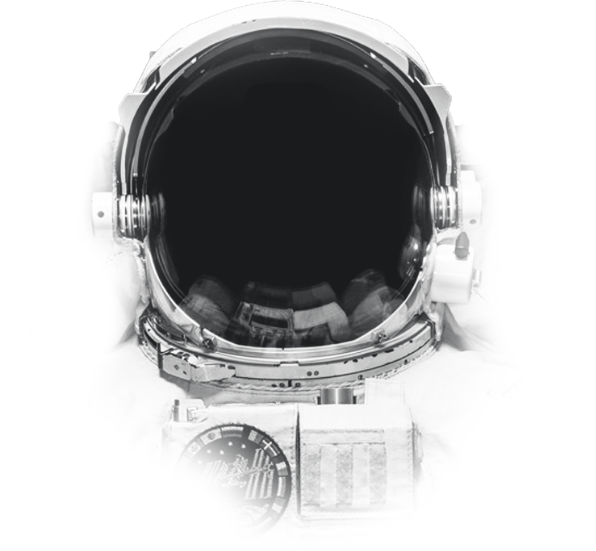
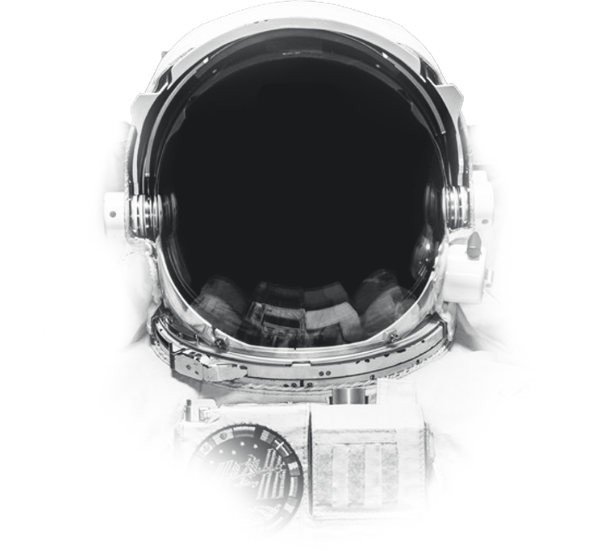
add button component

Changed region(s): [[0.151, 0.0309, 0.8456, 0.9564], [0.453, 0.0926, 0.4832, 0.1234]]

diff --git a/App/Containers/LaunchScreen.js b/App/Containers/LaunchScreen.js
@@ -3,6 +3,7 @@ import { View, Image, Animated, Easing, TouchableOpacity } from 'react-native'
 import images from '../Themes/Images'
 import { Title, Subtitle, Text } from '../Components/Typography'
 import { ApplicationStyles, Colors, Metrics, Images } from '../Themes'
+import { Button } from '../Components/Button'
 import styled from 'styled-components/native'
 import { WhiteSpace } from '../Components/Layout'
 import { isIphoneX } from '../Utils/iPhoneX'
@@ -20,7 +21,7 @@ const Wrapper = styled.View`
 const Spaceman = styled(Animated.Image)`
     resizemode: contain;
     position: absolute;
-    width: 120%;
+    width: ${isIphoneX() ? '120%' : '95%'};
 `
 
 const Logo = styled(Animated.Image)`
@@ -30,15 +31,8 @@ const Logo = styled(Animated.Image)`
     margin-bottom: ${Metrics.space.lg};
 `
 
-const Button = styled(Animated.createAnimatedComponent(TouchableOpacity))`
-    padding: ${Metrics.space.xl}px ${Metrics.space.xxl}px;
-    background: ${Colors.dark};
-    border-radius: 100;
-    z-index: 999;
-`
-
-const BOTTOM_ANIMATED_INITIAL = isIphoneX() ? -130 : -130
-const BOTTOM_ANIMATED_FINAL = isIphoneX() ? -120 : -120
+const BOTTOM_ANIMATED_INITIAL = isIphoneX() ? -130 : -170
+const BOTTOM_ANIMATED_FINAL = isIphoneX() ? -120 : -160
 
 const FLOAT_ANIMATION_DURATION = 1500
 
@@ -75,23 +69,23 @@ export default class LaunchScreen extends Component {
     constructor(props) {
         super(props)
         this.state = {
-            animatedPosition: new Animated.Value(0),
-            textPosition: new Animated.Value(0),
-            imagePosition: new Animated.ValueXY({ x: 0, y: 0 }),
+            floating: new Animated.Value(0),
+            textAndButtonFadeOut: new Animated.Value(0),
+            spacemanFadeOut: new Animated.ValueXY({ x: 0, y: 0 }),
         }
     }
 
     componentDidMount() {
-        floatAnimation(this.state.animatedPosition).start()
+        floatAnimation(this.state.floating).start()
     }
 
-    fadeEffect = value => {
+    fadeEffect = delay => {
         return {
-            top: this.state.textPosition.interpolate({
+            top: this.state.textAndButtonFadeOut.interpolate({
                 inputRange: [0, 1],
-                outputRange: [0, -Metrics.screenWidth / (3 + value)],
+                outputRange: [0, -Metrics.screenWidth / (3 + delay)],
             }),
-            opacity: this.state.textPosition.interpolate({
+            opacity: this.state.textAndButtonFadeOut.interpolate({
                 inputRange: [0, 1],
                 outputRange: [1, 0],
             }),
@@ -101,7 +95,7 @@ export default class LaunchScreen extends Component {
     render() {
         return (
             <View style={ApplicationStyles.screen.mainContainer}>
-                <View style={ApplicationStyles.screen.container}>
+                <View style={ApplicationStyles.screen.containerWithoutPadding}>
                     <Wrapper>
                         <Image
                             style={ApplicationStyles.screen.backgroundImage}
@@ -129,40 +123,36 @@ export default class LaunchScreen extends Component {
                         <Button
                             style={this.fadeEffect(4)}
                             onPress={() => {
-                                outAnimation(this.state.textPosition).start(
-                                    () => {
-                                        floatAnimation(
-                                            this.state.animatedPosition
-                                        ).stop()
-                                        this.props.navigation.navigate('Main')
-                                    }
-                                )
+                                outAnimation(
+                                    this.state.textAndButtonFadeOut
+                                ).start(() => {
+                                    floatAnimation(this.state.floating).stop()
+                                    this.props.navigation.navigate('Main')
+                                })
                                 imageOutAnimation(
-                                    this.state.imagePosition
+                                    this.state.spacemanFadeOut
                                 ).start()
                             }}
                         >
-                            <Text bold center color={Colors.white}>
-                                Continue
-                            </Text>
+                            Continue
                         </Button>
                         <WhiteSpace size="xxl" />
                         <Spaceman
                             style={{
-                                bottom: this.state.animatedPosition.interpolate(
+                                bottom: this.state.floating.interpolate({
+                                    inputRange: [0, 1],
+                                    outputRange: [
+                                        BOTTOM_ANIMATED_INITIAL,
+                                        BOTTOM_ANIMATED_FINAL,
+                                    ],
+                                }),
+                                transform: this.state.spacemanFadeOut.getTranslateTransform(),
+                                opacity: this.state.textAndButtonFadeOut.interpolate(
                                     {
                                         inputRange: [0, 1],
-                                        outputRange: [
-                                            BOTTOM_ANIMATED_INITIAL,
-                                            BOTTOM_ANIMATED_FINAL,
-                                        ],
+                                        outputRange: [1, 0],
                                     }
                                 ),
-                                transform: this.state.imagePosition.getTranslateTransform(),
-                                opacity: this.state.textPosition.interpolate({
-                                    inputRange: [0, 1],
-                                    outputRange: [1, 0],
-                                }),
                             }}
                             source={images.spaceman}
                         />

diff --git a/App/Themes/ApplicationStyles.js b/App/Themes/ApplicationStyles.js
@@ -14,50 +14,42 @@ const lightShadow = css`
   shadow-opacity: 0.05;
   shadow-radius: 20;
   elevation: 1;
-`;
-
+`
 
 const ApplicationStyles = {
-  screen: {
-    mainContainer: {
-      flex: 1,
-      position: 'relative',
-      backgroundColor: Colors.transparent
+    screen: {
+        mainContainer: {
+            flex: 1,
+            position: 'relative',
+            backgroundColor: Colors.transparent,
+        },
+        container: {
+            flex: 1,
+            position: 'relative',
+            paddingHorizontal: 20,
+            paddingTop: Metrics.doubleBaseMargin,
+            paddingHorizontal: Metrics.doubleBaseMargin,
+        },
+        containerWithoutPadding: {
+            flex: 1,
+            position: 'relative',
+        },
+        backgroundImage: {
+            position: 'absolute',
+            top: 0,
+            left: 0,
+            bottom: 0,
+            right: 0,
+            zIndex: -1,
+        },
+        section: {
+            margin: Metrics.section,
+            padding: Metrics.baseMargin,
+        },
     },
-    container: {
-      flex: 1,
-      position: 'relative',
-      paddingHorizontal: 20,
-      paddingTop: Metrics.doubleBaseMargin,
-      paddingHorizontal: Metrics.doubleBaseMargin,
-
+    shadows: {
+        lightShadow: lightShadow,
     },
-    backgroundImage: {
-      position: 'absolute',
-      top: 0,
-      left: 0,
-      bottom: 0,
-      right: 0,
-      zIndex: -1,
-    },
-    container: {
-      flex: 1,
-      paddingTop: Metrics.baseMargin,
-      backgroundColor: Colors.transparent
-    },
-    section: {
-      margin: Metrics.section,
-      padding: Metrics.baseMargin
-    },
-
-  },
-  shadows: {
-    lightShadow: lightShadow
-  }
-
 }
-
-
-
 
 export default ApplicationStyles

diff --git a/App/Components/Button.js b/App/Components/Button.js
@@ -1,0 +1,25 @@
+import React from 'react'
+import styled from 'styled-components'
+import { Animated, TouchableOpacity } from 'react-native'
+import { Text } from '../Components/Typography'
+import { Metrics, Colors } from '../Themes'
+
+const ButtonWrapper = styled(
+    Animated.createAnimatedComponent(TouchableOpacity)
+)`
+    padding: ${Metrics.space.xl}px ${Metrics.space.xxl}px;
+    background: ${Colors.dark};
+    border-radius: 100;
+    z-index: 999;
+    ${p => p.fullWidth && 'width: 100%'};
+`
+
+export function Button(props) {
+    return (
+        <ButtonWrapper {...props}>
+            <Text center color={Colors.white}>
+                {props.children}
+            </Text>
+        </ButtonWrapper>
+    )
+}

diff --git a/App/Themes/Colors.js b/App/Themes/Colors.js
@@ -1,16 +1,19 @@
+import { Colors } from '.'
+
 const colors = {
-    red: '#852B3D',
-    yellow: '#DE9B30',
-    green: '#2B7C85',
-    blue: '#3B607B',
-    purple: '#532D6F',
+    red: '#9F3553',
+    fucsia: '#B94BA7',
+    purple: '#5B3784',
+    redLight: '#FFCEDC',
+    fucsiaLight: '#FFD0F7',
+    purpleLight: '#E7D3FF',
     dark: '#080921',
     white: '#ffffff',
     clear: 'rgba(0,0,0,0)',
     gray: '#F2F2F2',
 
-    tabBarSelected: '#2B7C85',
-    tabBarDefault: '#222222',
+    tabBarSelected: '#5B3784',
+    tabBarDefault: '#FFFFFF',
 }
 
 export default colors

diff --git a/App/Navigation/TabNavigation.js b/App/Navigation/TabNavigation.js
@@ -64,6 +64,8 @@ export default TabNavigator = createBottomTabNavigator(
             activeTintColor: Colors.tabBarSelected,
             inactiveTintColor: Colors.tabBarDefault,
         },
-        tabBarComponent: props => <TabBar {...props} />,
+        tabBarComponent: props => (
+            <TabBar activeTabBackground={Colors.purpleLight} {...props} />
+        ),
     }
 )
